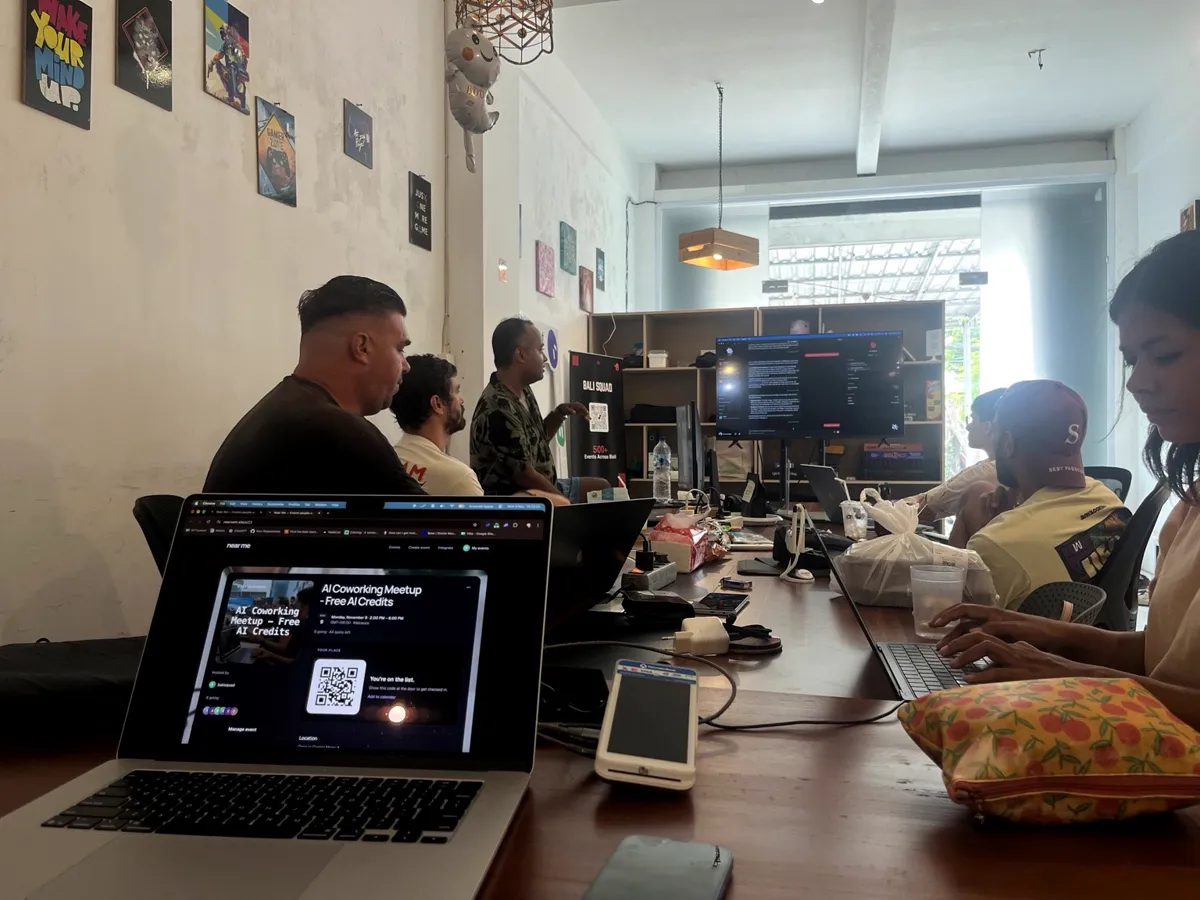
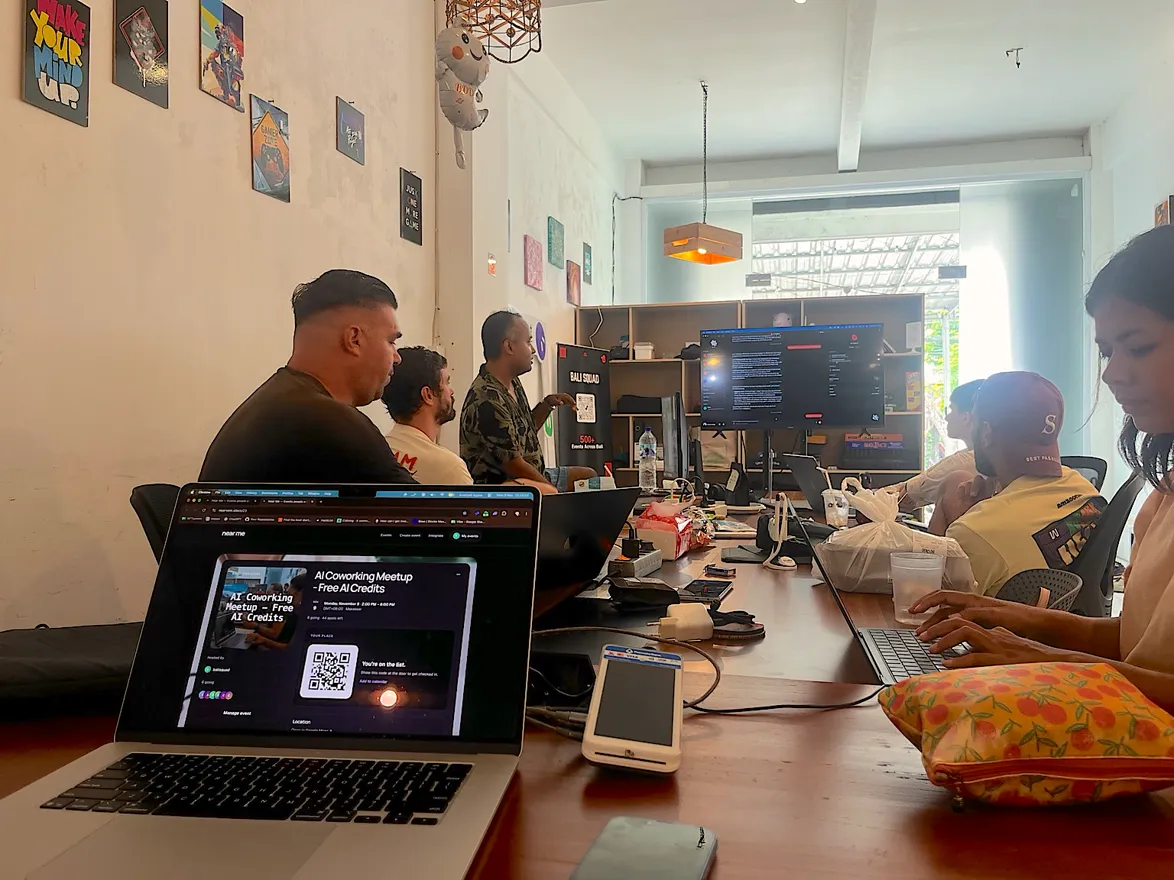
Landing: BaliSquad section under the hero, ten color-corrected photos in a swipe strip

diff --git a/web/public/landing/index.html b/web/public/landing/index.html
@@ -198,16 +198,20 @@ section { padding-block: clamp(72px, 10vw, 128px); }
 .quote blockquote { margin: 0; text-align: left; font-size: clamp(28px, 3.6vw, 44px); font-weight: 650; letter-spacing: -0.035em; line-height: 1.08; max-width: 15em; }
 
 /* ---------- LIVE (BaliSquad) ---------- */
-.live { border-top: 1px solid var(--line); }
-.live .wrap { display: flex; flex-direction: column; gap: clamp(28px, 4vw, 48px); }
-.live-photos { display: grid; grid-template-columns: minmax(0, 2fr) minmax(0, 1fr); grid-template-rows: repeat(2, minmax(0, 1fr)); gap: 12px; aspect-ratio: 2 / 1; }
-.live-photos img { display: block; width: 100%; height: 100%; object-fit: cover; border-radius: 20px; background: var(--soft); }
-.live-photos img:first-child { grid-row: span 2; }
-@media (max-width: 860px) {
-  .live-photos { grid-template-columns: repeat(2, minmax(0, 1fr)); grid-template-rows: none; aspect-ratio: auto; }
-  .live-photos img { height: auto; aspect-ratio: 1; border-radius: 16px; }
-  .live-photos img:first-child { grid-row: auto; grid-column: 1 / -1; aspect-ratio: 4 / 3; }
-}
+.live { border-bottom: 1px solid var(--line); }
+.live-head { display: flex; align-items: flex-end; justify-content: space-between; gap: 24px; }
+.strip-nav { display: flex; gap: 8px; flex-shrink: 0; }
+.strip-btn { appearance: none; width: 44px; height: 44px; border-radius: 50%; border: 1px solid var(--line); background: var(--bg); color: var(--ink); font: 600 18px var(--font); cursor: pointer; transition: background .15s ease, opacity .15s ease; }
+.strip-btn:hover:not(:disabled) { background: var(--soft); }
+.strip-btn:disabled { opacity: .35; cursor: default; }
+.strip-btn:focus-visible { outline: 2px solid var(--accent); outline-offset: 2px; }
+@media (hover: none) { .strip-nav { display: none; } }
+/* photos run from the text column to the screen edge; swipe on phones, arrows on desktop */
+.strip { --pad: max(20px, calc((100% - 1160px) / 2 + 20px)); display: flex; gap: 12px; margin-top: clamp(28px, 4vw, 48px); padding-inline: var(--pad); scroll-padding-inline: var(--pad); overflow-x: auto; scroll-snap-type: x mandatory; overscroll-behavior-x: contain; scrollbar-width: none; }
+.strip::-webkit-scrollbar { display: none; }
+.strip:focus-visible { outline: 2px solid var(--accent); outline-offset: -2px; }
+.strip img { flex: none; height: clamp(260px, 34vw, 440px); width: auto; border-radius: 20px; scroll-snap-align: start; background: var(--soft); }
+@media (max-width: 860px) { .strip img { border-radius: 16px; } }
 
 
 /* ---------- INTEGRATE ---------- */
@@ -277,6 +281,42 @@ footer .wrap { display: flex; flex-wrap: wrap; justify-content: space-between; g
 </div>
 
 <main>
+  <section class="live" id="live">
+    <div class="wrap live-head">
+      <div class="txt reveal">
+        <span class="eyebrow">Already live</span>
+        <h2 class="h2">Running with BaliSquad.</h2>
+        <p class="lead">AI Coworking Meetup in Uluwatu, 9 November. 7 guests put down a deposit. All 7 checked in.</p>
+        <a class="more" href="https://balisquad.com/event/bukitsocial-z3CmSN" target="_blank" rel="noreferrer">See the event on BaliSquad →</a>
+      </div>
+      <div class="strip-nav">
+        <button class="strip-btn" type="button" aria-label="Previous photos">←</button>
+        <button class="strip-btn" type="button" aria-label="Next photos">→</button>
+      </div>
+    </div>
+    <div class="strip reveal" tabindex="0" role="region" aria-label="Photos from the BaliSquad meetup">
+      <img src="/landing/photos/balisquad-room.webp" alt="Guests at the BaliSquad AI Coworking Meetup in Uluwatu" width="1174" height="880" decoding="async" />
+      <img src="/landing/photos/balisquad-stage.webp" alt="The host shows the live Nearvent guest list on the big screen" width="1365" height="768" decoding="async" />
+      <img src="/landing/photos/balisquad-rsvp.webp" alt="Registering on a phone with a 0.5 USDC deposit" width="768" height="735" loading="lazy" decoding="async" />
+      <img src="/landing/photos/balisquad-phone.webp" alt="Joining the event from a phone" width="1365" height="768" loading="lazy" decoding="async" />
+      <img src="/landing/photos/balisquad-done.webp" alt="The wallet confirms the deposit: All Done" width="768" height="870" loading="lazy" decoding="async" />
+      <img src="/landing/photos/balisquad-pass.webp" alt="The QR pass: You're on the list" width="768" height="855" loading="lazy" decoding="async" />
+      <img src="/landing/photos/balisquad-door.webp" alt="Scanning a guest's QR pass at the door" width="1365" height="768" loading="lazy" decoding="async" />
+      <img src="/landing/photos/balisquad-scan.webp" alt="Guests check in by showing a QR pass to the host's laptop camera" width="1365" height="768" loading="lazy" decoding="async" />
+      <img src="/landing/photos/balisquad-guest.webp" alt="A guest shows a QR pass" width="1365" height="768" loading="lazy" decoding="async" />
+      <img src="/landing/photos/balisquad-list.webp" alt="The host's guest list on a laptop" width="1365" height="768" loading="lazy" decoding="async" />
+    </div>
+    <script>
+      (() => {
+        const strip = document.querySelector('.strip'), [prev, next] = document.querySelectorAll('.strip-btn');
+        const go = dir => strip.scrollBy({ left: dir * strip.clientWidth * 0.8, behavior: matchMedia('(prefers-reduced-motion: reduce)').matches ? 'auto' : 'smooth' });
+        const sync = () => { prev.disabled = strip.scrollLeft < 4; next.disabled = strip.scrollLeft + strip.clientWidth > strip.scrollWidth - 4; };
+        prev.onclick = () => go(-1); next.onclick = () => go(1);
+        strip.addEventListener('scroll', sync, { passive: true }); addEventListener('resize', sync); addEventListener('load', sync); sync();
+      })();
+    </script>
+  </section>
+
   <section>
     <div class="wrap">
       <div class="head reveal">
@@ -400,22 +440,6 @@ footer .wrap { display: flex; flex-wrap: wrap; justify-content: space-between; g
       </div>
       <div class="quote reveal">
         <blockquote>“It costs nothing to click Sign in. Which ruins everything.”</blockquote>
-      </div>
-    </div>
-  </section>
-
-  <section class="live" id="live">
-    <div class="wrap">
-      <div class="txt reveal">
-        <span class="eyebrow">Already live</span>
-        <h2 class="h2">Running with BaliSquad.</h2>
-        <p class="lead">AI Coworking Meetup in Uluwatu, 9 November. 7 guests put down a deposit. All 7 checked in.</p>
-        <a class="more" href="https://balisquad.com/event/bukitsocial-z3CmSN" target="_blank" rel="noreferrer">See the event on BaliSquad →</a>
-      </div>
-      <div class="live-photos reveal">
-        <img src="/landing/photos/balisquad-room.webp" alt="Guests at the BaliSquad AI Coworking Meetup; a laptop in front shows a Nearvent QR pass" width="1200" height="900" loading="lazy" decoding="async" />
-        <img src="/landing/photos/balisquad-scan.webp" alt="Host checks in guests by scanning a QR pass with the laptop camera" width="910" height="512" loading="lazy" decoding="async" style="object-position: 40% center" />
-        <img src="/landing/photos/balisquad-guest.webp" alt="Guest shows a QR pass at the door" width="910" height="512" loading="lazy" decoding="async" style="object-position: 55% center" />
       </div>
     </div>
   </section>
